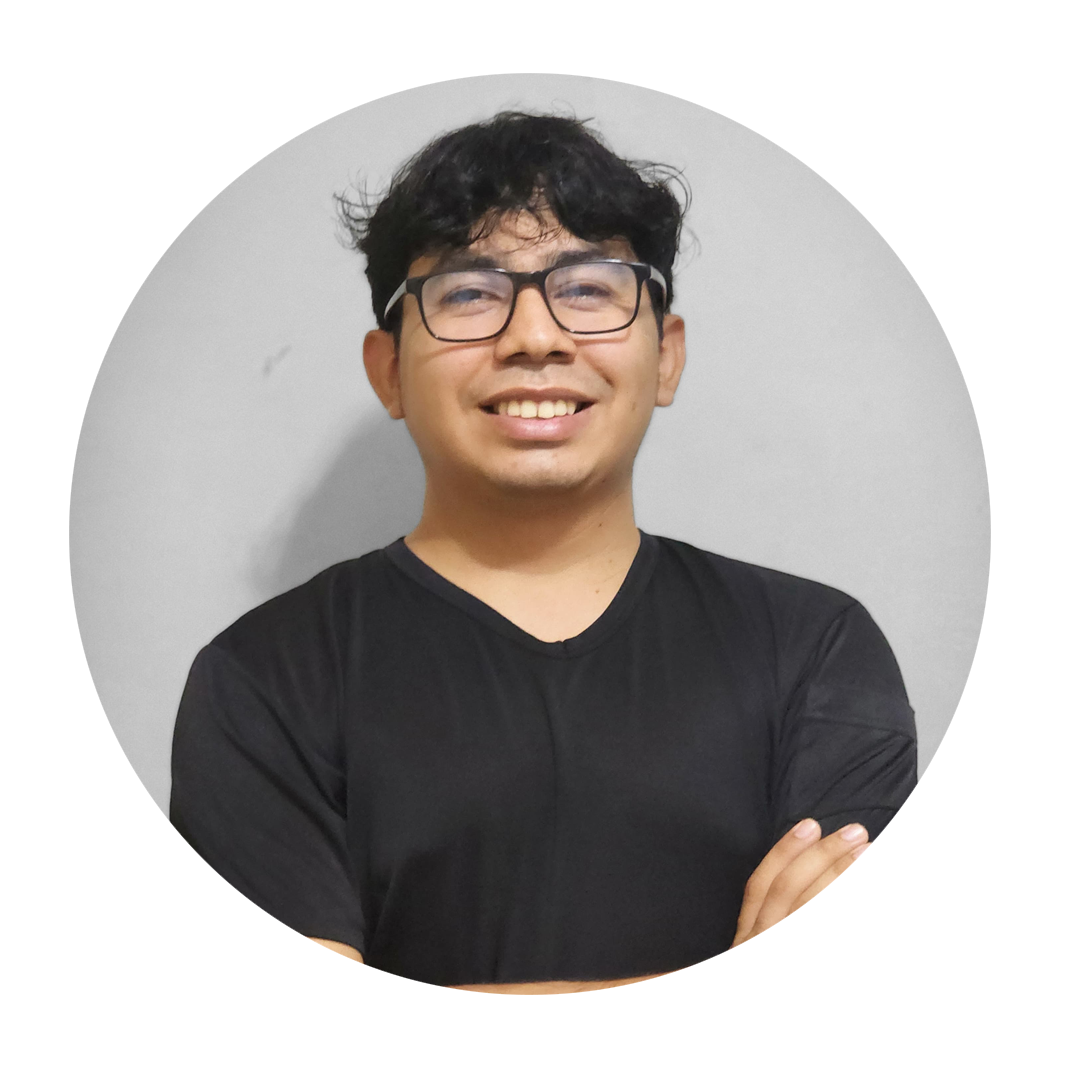
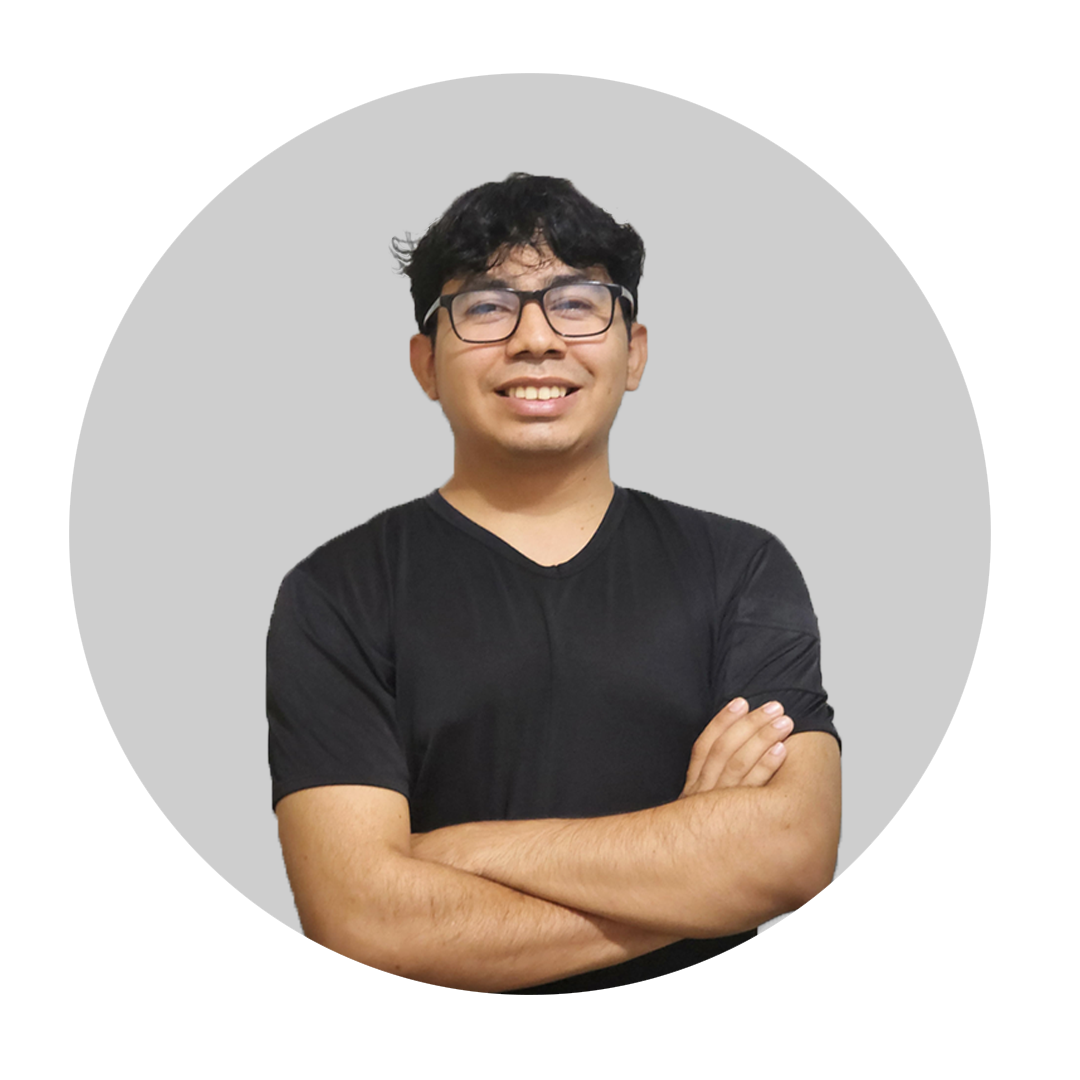
Detalles minimos

Changed region(s): [[0.1528, 0.0917, 0.8556, 0.9472], [0.0611, 0.3972, 0.0917, 0.4889]]

diff --git a/src/components/Contact.js b/src/components/Contact.js
@@ -53,110 +53,112 @@ const Contact = () => {
 
     return (
         <section id="contacto" className="py-20 bg-light-secondaryBg dark:bg-dark-secondaryBg">
-            <div className="max-w-6xl mx-auto px-4 text-center">
-                <h2 className="text-3xl font-bold mb-12 text-light-text dark:text-dark-text">Contacto</h2>
-
-                {/* Mensaje de éxito */}
-                {showSuccess && (
-                    <div className="mb-6 p-4 bg-green-100 dark:bg-green-800 text-green-700 dark:text-green-200 rounded-md">
-                        ¡Mensaje enviado con éxito!
-                    </div>
-                )}
-
-                <div className="max-w-2xl mx-auto">
-                    <form onSubmit={handleSubmit} className="space-y-6">
-                        <div className="grid grid-cols-1 md:grid-cols-2 gap-6">
-                            <div>
-                                <label
-                                    htmlFor="name"
-                                    className="block text-sm font-medium text-light-text dark:text-dark-text mb-1"
-                                >
-                                    Nombre
-                                </label>
-                                <input
-                                    type="text"
-                                    name="Name"
-                                    id="name"
-                                    value={formData.Name}
-                                    onChange={handleChange}
-                                    required
-                                    placeholder="Nombre"
-                                    className="w-full px-4 py-2 border  text-light-text dark:text-light-text"
-                                />
-                            </div>
-                            <div>
-                                <label
-                                    htmlFor="email"
-                                    className="block text-sm font-medium text-light-text dark:text-dark-text mb-1"
-                                >
-                                    Correo
-                                </label>
-                                <input
-                                    type="email"
-                                    name="Email"
-                                    id="email"
-                                    value={formData.Email}
-                                    onChange={handleChange}
-                                    required
-                                    placeholder="Correo"
-                                    className="w-full px-4 py-2 border text-light-text dark:text-light-text"
-                                />
-                            </div>
-                        </div>
-
+        <div className="max-w-6xl mx-auto px-4 text-center">
+            <h2 className="text-3xl font-bold mb-12 text-light-text dark:text-dark-text">Contacto</h2>
+    
+            {/* Mensaje de éxito */}
+            {showSuccess && (
+                <div className="mb-6 p-4 bg-green-100 dark:bg-green-800 text-green-700 dark:text-green-200 rounded-md">
+                    ¡Mensaje enviado con éxito!
+                </div>
+            )}
+    
+            {/* Contenedor del formulario con borde */}
+            <div className="max-w-2xl mx-auto border border-light-body dark:border-dark-tertiaryBg rounded-md p-6 bg-white dark:bg-dark-body shadow-md">
+                <form onSubmit={handleSubmit} className="space-y-6">
+                    <div className="grid grid-cols-1 md:grid-cols-2 gap-6">
                         <div>
                             <label
-                                htmlFor="subject"
+                                htmlFor="name"
                                 className="block text-sm font-medium text-light-text dark:text-dark-text mb-1"
                             >
-                                Asunto
+                                Nombre
                             </label>
                             <input
                                 type="text"
-                                name="Subject"
-                                id="subject"
-                                value={formData.Subject}
+                                name="Name"
+                                id="name"
+                                value={formData.Name}
                                 onChange={handleChange}
                                 required
-                                placeholder="Asunto"
-                                className="w-full px-4 py-2 border text-light-text dark:text-light-text "
+                                placeholder="Nombre"
+                                className="w-full px-4 py-2 border border-y-light-tertiaryBorder dark:border-y-dark-tertiaryBorder text-light-text dark:text-light-text"
                             />
                         </div>
-
                         <div>
                             <label
-                                htmlFor="message"
+                                htmlFor="email"
                                 className="block text-sm font-medium text-light-text dark:text-dark-text mb-1"
                             >
-                                Mensaje
+                                Correo
                             </label>
-                            <textarea
-                                id="message"
-                                name="Message"
-                                rows="8"
-                                value={formData.Message}
+                            <input
+                                type="email"
+                                name="Email"
+                                id="email"
+                                value={formData.Email}
                                 onChange={handleChange}
                                 required
-                                placeholder="Escribe un mensaje..."
-                                className="w-full px-4 py-2 border text-light-text dark:text-light-text "
-                            ></textarea>
+                                placeholder="Correo"
+                                className="w-full px-4 py-2 border border-y-light-tertiaryBorder dark:border-y-dark-tertiaryBorder text-light-text dark:text-light-text"
+                            />
                         </div>
-
-                        <div className="text-center">
-                            <button
-                                type="submit"
-                                disabled={isSubmitting}
-                                className={`inline-flex justify-center px-6 py-3 border border-transparent text-base font-medium rounded-md text-white bg-light-link hover:bg-light-link dark:bg-dark-link dark:hover:bg-dark-link focus:outline-none focus:ring-2 focus:ring-offset-2 focus:ring-light-primary dark:focus:ring-dark-primary ${
-                                    isSubmitting ? 'opacity-50 cursor-not-allowed' : ''
-                                }`}
-                            >
-                                {isSubmitting ? 'Enviando...' : 'Enviar Mensaje'}
-                            </button>
-                        </div>
-                    </form>
-                </div>
+                    </div>
+    
+                    <div>
+                        <label
+                            htmlFor="subject"
+                            className="block text-sm font-medium text-light-text dark:text-dark-text mb-1"
+                        >
+                            Asunto
+                        </label>
+                        <input
+                            type="text"
+                            name="Subject"
+                            id="subject"
+                            value={formData.Subject}
+                            onChange={handleChange}
+                            required
+                            placeholder="Asunto"
+                            className="w-full px-4 py-2 border border-y-light-tertiaryBorder dark:border-y-dark-tertiaryBorder text-light-text dark:text-light-text"
+                        />
+                    </div>
+    
+                    <div>
+                        <label
+                            htmlFor="message"
+                            className="block text-sm font-medium text-light-text dark:text-dark-text mb-1"
+                        >
+                            Mensaje
+                        </label>
+                        <textarea
+                            id="message"
+                            name="Message"
+                            rows="8"
+                            value={formData.Message}
+                            onChange={handleChange}
+                            required
+                            placeholder="Escribe un mensaje..."
+                            className="w-full px-4 py-2 border border-y-light-tertiaryBorder dark:border-y-dark-tertiaryBorder text-light-text dark:text-light-text resize-none"
+                        ></textarea>
+                    </div>
+    
+                    <div className="text-center">
+                        <button
+                            type="submit"
+                            disabled={isSubmitting}
+                            className={`inline-flex justify-center px-6 py-3 border border-transparent text-base font-medium rounded-md text-white bg-light-link hover:bg-light-link dark:bg-dark-link dark:hover:bg-dark-link focus:outline-none focus:ring-2 focus:ring-offset-2 focus:ring-light-primary dark:focus:ring-dark-primary ${
+                                isSubmitting ? 'opacity-50 cursor-not-allowed' : ''
+                            }`}
+                        >
+                            {isSubmitting ? 'Enviando...' : 'Enviar Mensaje'}
+                        </button>
+                    </div>
+                </form>
             </div>
-        </section>
+        </div>
+    </section>
+    
     );
 };
 

diff --git a/src/components/Portfolio.js b/src/components/Portfolio.js
@@ -4,7 +4,7 @@ import Contact from './Contact';
 import projects from './Projects';
 import Certificates from './Certificates';
 import Testimonials from './Testimonials';
-import izaortizImage from './img/izaortiz.webp';
+import izaortizImage from './img/iza.png';
 import IzDev from './img/favicon.svg';
 import CV from './download/IsaiasOrtiz.pdf';
 import { useTheme } from '../ThemeContext';
@@ -259,7 +259,7 @@ const Portfolio = () => {
 
 
             {/* Skills Section */}
-            <section id="habilidades" className="py-20 bg-light-secondaryBg dark:bg-dark-secondaryBg">
+            <section id="habilidades" className="py-20 bg-light-body dark:bg-dark-body">
                 <div className="max-w-6xl mx-auto px-4">
                     <h2 className="text-3xl font-bold text-center mb-12 text-light-text dark:text-dark-text">
                         Habilidades
@@ -286,7 +286,7 @@ const Portfolio = () => {
             </section>
 
             {/* Certificates Section */}
-            <section id="certificados" className="py-20 bg-light-secondaryBg dark:bg-dark-secondaryBg">
+            <section id="certificados" className="py-20 bg-light-body dark:bg-dark-secondaryBg">
                 <Certificates />
             </section>
 
@@ -297,13 +297,13 @@ const Portfolio = () => {
             </section>
 
             {/* Contact Section */}
-            <section id="contacto" className=" bg-light-secondaryBg dark:bg-dark-secondaryBg">
+            <section id="contacto" className=" bg-light-body dark:bg-dark-body">
                 {/* Contact Form */}
                 <Contact />
             </section>
 
             {/* Footer */}
-            <footer className="bg-light-secondaryBg dark:bg-dark-secondaryBg py-8">
+            <footer className="bg-light-body dark:bg-dark-body py-8">
                 <div className="max-w-6xl mx-auto px-4 space-y-4">
                     {/* Contenedor para alinear verticalmente los elementos */}
                     <div className="flex flex-col items-center space-y-4">

diff --git a/src/components/Testimonials.js b/src/components/Testimonials.js
@@ -42,7 +42,7 @@ const testimonials = [
         name: "Miguel Peñalba",
         image: t1,
         profession: "Ingeniero en Sistemas y Redes Informáticas",
-        feedback: "Un compañero muy comprometido y dedicado a su formación en ingeniería en sistemas, siempre demuestra una gran capacidad para resolver problemas técnicos y una disposición admirable para colaborar con los demás.",
+        feedback: "Es un compañero muy comprometido y dedicado a su formación en ingeniería en sistemas, siempre demuestra una gran capacidad para resolver problemas técnicos y una disposición admirable para colaborar con los demás.",
     },
     {
         name: "Cristian Alemán",
@@ -60,7 +60,7 @@ const testimonials = [
         name: "Nayeli Pineda",
         image: t6,
         profession: "Técnica en Ingenieria en Sistemas y Redes Informáticas",
-        feedback: "Es un buen compañero: responsable, trabajador y honesto. Se dedica con pasión a su carrera, especialmente en el área de programación. Además, tiene la capacidad de trabajar bajo presión de manera efectiva",
+        feedback: "Es un buen compañero: Responsable, trabajador y honesto. Se dedica con pasión a su carrera, especialmente en el área de programación. Además, tiene la capacidad de trabajar bajo presión de manera efectiva",
     },
 ];
 
@@ -97,7 +97,7 @@ const Testimonials = () => {
     };
 
     return (
-        <section className="py-20 bg-light-secondaryBg dark:bg-dark-secondaryBg">
+        <section className="py-20 bg-light-body dark:bg-dark-body">
             <div className="max-w-3xl mx-auto px-4 relative">
                 <h2 className="text-3xl font-bold text-center mb-12 text-light-text dark:text-dark-text">
                     Testimonios
